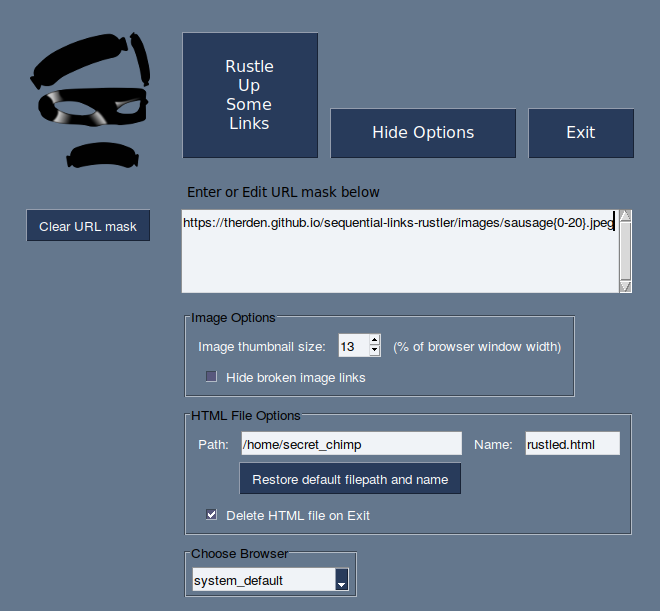
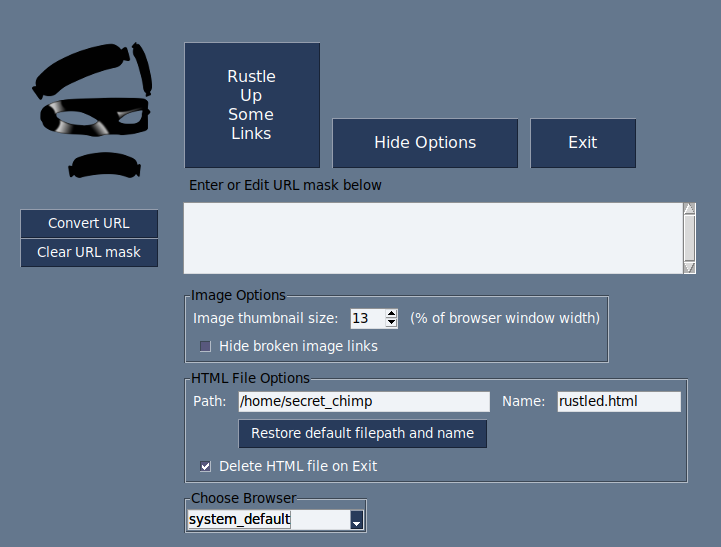
Update screenshots and README.md for release 1.6

Changed region(s): [[0.0303, 0.0311, 0.9697, 0.9945]]

diff --git a/README.md b/README.md
@@ -35,6 +35,7 @@ Getting Started
 <img width="90%" align="center" src="assets/SLR_screenshot.png">
 </figure>
 
+
 Basic Usage
 -----------
 __Sequential Links Rustler__ accepts a __"URL mask"__ and generates an HTML page with links to the specified resources, opening the resulting file in your chosen browser.
@@ -55,6 +56,12 @@ From this URL mask, __Sequential Links Rustler__ will produce and load an HTML p
 <img width="90%" align="center" src="assets/Links_screenshot.png">
 </figure>
 
+
+URL mask helper
+---------------
+__Sequential Links Rustler__ now has a *Convert URL* button that, when pressed, will evaluate a normal URL, replacing all numeric sequences with equivalent sequence definitions -- which you can then edit to customize the HTML file that will be generated.
+
+
 Options
 -------
 Several aspects of __Sequential Links Rustler__'s are configurable.  These can be viewed by clicking the _Show Options_ button (which will then display the text _Hide Options_.)
@@ -63,7 +70,7 @@ Several aspects of __Sequential Links Rustler__'s are configurable.  These can b
 <img width="90%" align="center" src="assets/SLR_Options_screenshot.png">
 </figure>
 
-Options for image links
+*Options for image links*
 --------------------------------
 - __Specify the size of thumbnail images as % of browser window width__
 
@@ -75,7 +82,7 @@ Options for image links
 
 <!-- - #### Specify a separate URL mask for thumbnail images from full-size images -->
 
-Other Options
+*Other Options*
 -------------
 - __Choose alternate location to save the generated HTML file__
 
@@ -93,6 +100,7 @@ Other Options
 
     Note: if you choose a browser that is not available on your system, no error message will be displayed -- the generated file just won't be opened.
 
+
 Advanced "sequence definition" features
 ---------------------------------------
 -  zero padding of sequence values
@@ -102,9 +110,11 @@ Advanced "sequence definition" features
 
 For detailed information about these options, and more example URL masks, see [the GitHub pages associated with this project](https://therden.github.io/sequential-links-rustler/).
 
+
 ToDo
 ----
 I track bugs and ideas for improvements and new features in [Issues](https://github.com/therden/sequential-links-rustler/issues) -- feel free to contribute your thoughts there.
+
 
 Speaking of contributions
 -------------------------
@@ -116,9 +126,10 @@ __Buy Me a Coffee__ is a _terrific_ way to support creators.
 
 It's quick, easy, and (unless you choose otherwise) public -- by default, your contribution will be recorded and made visible at [my page on the __Buy Me a Coffee__ site](https://www.buymeacoffee.com/tomherden).
 
+
 Credits
 -------
-Speaking of credit...
+And speaking of credits...
 
 My sincere thanks to
 
